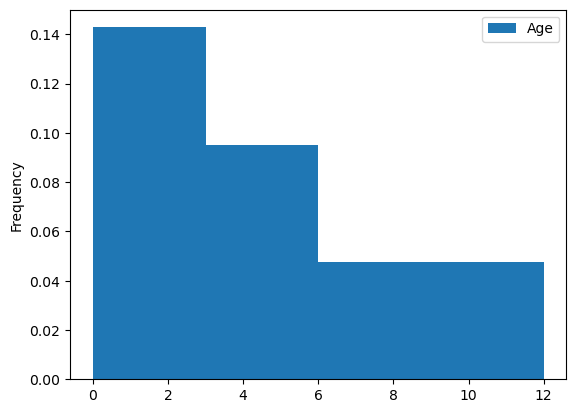
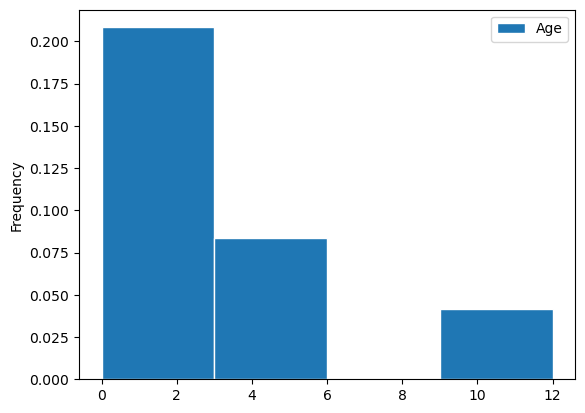
updated Histogram documentation

diff --git a/docs/plotting/Bar Chart.md b/docs/plotting/Bar Chart.md
@@ -1,11 +1,11 @@
 ---
-sidebar_position: 1
+sidebar_position: 3
 ---
 
 import DataFrameComponent from '../../components/DataFrameComponent.jsx';
 import '../../src/css/function.css';
 
-<code>df.plot(kind='hist', y=data_col, bins=the_bins, density=True, ec='w')</code>
+<code>df.plot(kind='hist', y=data_col, bins=the_bins, density=True)</code>
 
 <div className='base'>
     <p><strong>Create a histogram using a DataFrame.</strong></p>
@@ -27,13 +27,10 @@ import '../../src/css/function.css';
         <dd className='parameter-description'>If False, y-axis plots the number of observations.</dd>
         <dd className='parameter-description'>If True, y-axis plots the probability density.</dd>
 
-        <dd className='parameter'>ec : <em>string</em></dd>
-        <dd className='parameter-description'>Color for histogram bin outlines, use ec='w' for a white outline.</dd>
-
         <!-- Include LaTEX for probability density calculation? -->
 
         <dt className='term'>Returns:</dt>
-        <dd>plot - Matplotlib plot created using [parameters](https://pandas.pydata.org/docs/reference/api/pandas.DataFrame.plot.html).</dd>
+        <dd>plot - Matplotlib plot created using parameters.</dd>
 
         <dt className='term'>Return Type:</dt>
         <dd>Matplotlib plot</dd>
@@ -51,13 +48,13 @@ import '../../src/css/function.css';
 ---
 
 ```python
-pets.plot(kind='hist', y='Age', bins=np.arange(0, 15, 3), density=True, ec='w')
+pets.plot(kind='hist', y='Age', bins=np.arange(0, 15, 3), density=True)
 ```
 
 ![Histogram example 1](/img/histogram/histex1.png)
 
 ```python
-pets.plot(kind='hist', y='Weight', bins=5, density=True, ec='w')
+pets.plot(kind='hist', y='Weight', bins=5, density=True)
 ```
 
 ![Histogram example 2](/img/histogram/histex2.png)

diff --git a/docs/plotting/Line Plot.md b/docs/plotting/Line Plot.md
@@ -1,11 +1,11 @@
 ---
-sidebar_position: 1
+sidebar_position: 4
 ---
 
 import DataFrameComponent from '../../components/DataFrameComponent.jsx';
 import '../../src/css/function.css';
 
-<code>df.plot(kind='hist', y=data_col, bins=the_bins, density=True, ec='w')</code>
+<code>df.plot(kind='hist', y=data_col, bins=the_bins, density=True)</code>
 
 <div className='base'>
     <p><strong>Create a histogram using a DataFrame.</strong></p>
@@ -27,13 +27,10 @@ import '../../src/css/function.css';
         <dd className='parameter-description'>If False, y-axis plots the number of observations.</dd>
         <dd className='parameter-description'>If True, y-axis plots the probability density.</dd>
 
-        <dd className='parameter'>ec : <em>string</em></dd>
-        <dd className='parameter-description'>Color for histogram bin outlines, use ec='w' for a white outline.</dd>
-
         <!-- Include LaTEX for probability density calculation? -->
 
         <dt className='term'>Returns:</dt>
-        <dd>plot - Matplotlib plot created using [parameters](https://pandas.pydata.org/docs/reference/api/pandas.DataFrame.plot.html).</dd>
+        <dd>plot - Matplotlib plot created using parameters.</dd>
 
         <dt className='term'>Return Type:</dt>
         <dd>Matplotlib plot</dd>
@@ -51,13 +48,13 @@ import '../../src/css/function.css';
 ---
 
 ```python
-pets.plot(kind='hist', y='Age', bins=np.arange(0, 15, 3), density=True, ec='w')
+pets.plot(kind='hist', y='Age', bins=np.arange(0, 15, 3), density=True)
 ```
 
 ![Histogram example 1](/img/histogram/histex1.png)
 
 ```python
-pets.plot(kind='hist', y='Weight', bins=5, density=True, ec='w')
+pets.plot(kind='hist', y='Weight', bins=5, density=True)
 ```
 
 ![Histogram example 2](/img/histogram/histex2.png)

diff --git a/docs/plotting/Scatter Plot.md b/docs/plotting/Scatter Plot.md
@@ -1,11 +1,11 @@
 ---
-sidebar_position: 1
+sidebar_position: 2
 ---
 
 import DataFrameComponent from '../../components/DataFrameComponent.jsx';
 import '../../src/css/function.css';
 
-<code>df.plot(kind='hist', y=data_col, bins=the_bins, density=True, ec='w')</code>
+<code>df.plot(kind='hist', y=data_col, bins=the_bins, density=True)</code>
 
 <div className='base'>
     <p><strong>Create a histogram using a DataFrame.</strong></p>
@@ -27,13 +27,10 @@ import '../../src/css/function.css';
         <dd className='parameter-description'>If False, y-axis plots the number of observations.</dd>
         <dd className='parameter-description'>If True, y-axis plots the probability density.</dd>
 
-        <dd className='parameter'>ec : <em>string</em></dd>
-        <dd className='parameter-description'>Color for histogram bin outlines, use ec='w' for a white outline.</dd>
-
         <!-- Include LaTEX for probability density calculation? -->
 
         <dt className='term'>Returns:</dt>
-        <dd>plot - Matplotlib plot created using [parameters](https://pandas.pydata.org/docs/reference/api/pandas.DataFrame.plot.html).</dd>
+        <dd>plot - Matplotlib plot created using parameters.</dd>
 
         <dt className='term'>Return Type:</dt>
         <dd>Matplotlib plot</dd>
@@ -51,13 +48,13 @@ import '../../src/css/function.css';
 ---
 
 ```python
-pets.plot(kind='hist', y='Age', bins=np.arange(0, 15, 3), density=True, ec='w')
+pets.plot(kind='hist', y='Age', bins=np.arange(0, 15, 3), density=True)
 ```
 
 ![Histogram example 1](/img/histogram/histex1.png)
 
 ```python
-pets.plot(kind='hist', y='Weight', bins=5, density=True, ec='w')
+pets.plot(kind='hist', y='Weight', bins=5, density=True)
 ```
 
 ![Histogram example 2](/img/histogram/histex2.png)
